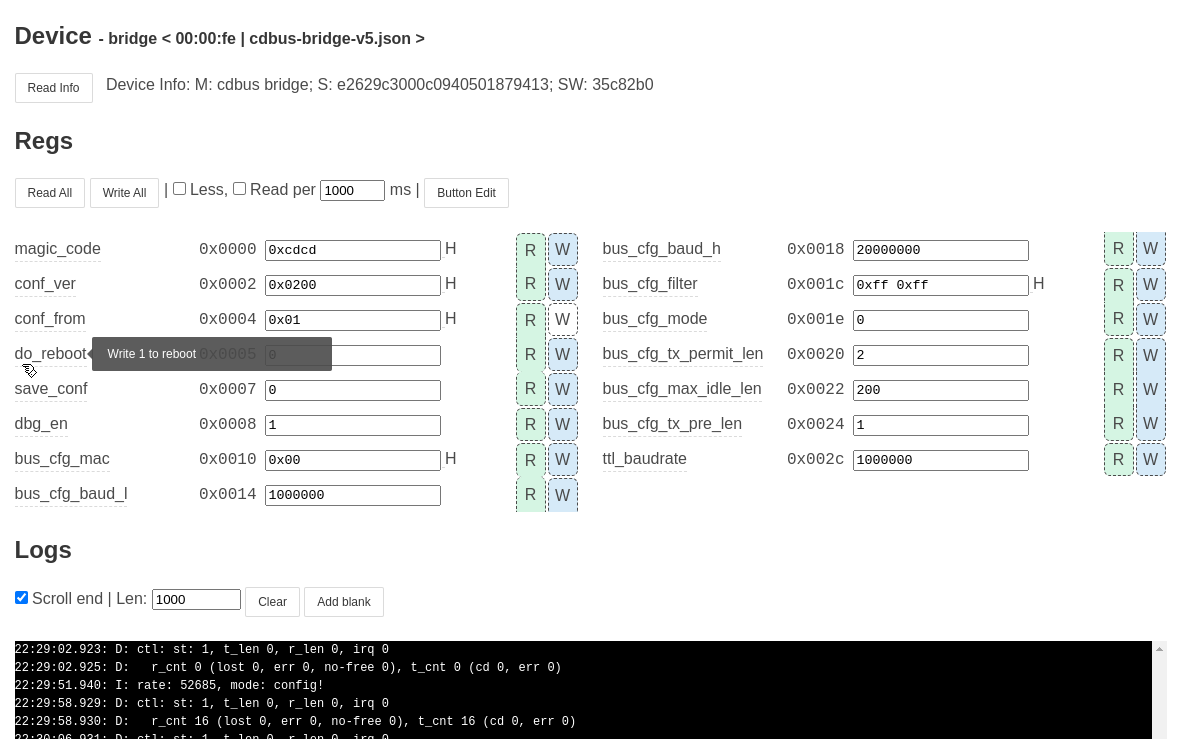
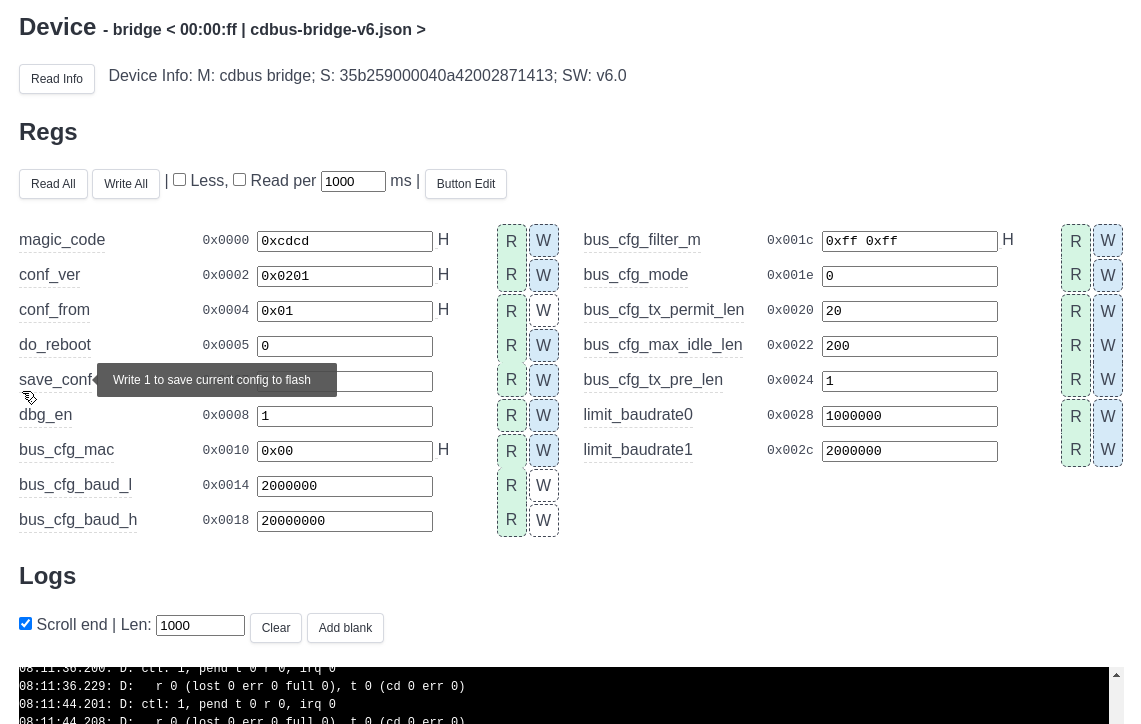
limit baud_l by switch 1.2

diff --git a/fw_bridge/usr/app_main.c b/fw_bridge/usr/app_main.c
@@ -84,7 +84,8 @@ static void usb_detection(void)
         csa.usb_online = false;
     } else if (!csa.usb_online && t_cur - t_usb > 5) { // wait for host to turn off echo
         csa.usb_online = true;
-        printf("usb: 0 -> 1\n");
+        cdc_struct_type *pcdc = (cdc_struct_type *)otg_core_struct_hs.dev.class_handler->pdata;
+        printf("usb: 0 -> 1 (baudrate %ld)\n", pcdc->linecoding.bitrate);
     }
 }
 
@@ -94,7 +95,10 @@ void app_main(void)
     volatile uint64_t *stack_check = (uint64_t *)((uint32_t)&end + 256);
     cdc_struct_type *pcdc = (cdc_struct_type *)otg_core_struct_hs.dev.class_handler->pdata;
     cd_frame_t *tx_frame = NULL;
-    static int cdc_rate_bk = 0;
+    uint32_t cdc_rate_bk = 0;
+    uint32_t cdc_rate_final = 115200;
+    uint32_t cdctl_baud_l = 115200;
+    uint32_t cdctl_baud_h = 115200;
 
     gpio_set_val(&led_tx, 1);
     gpio_set_val(&led_rx, 1);
@@ -109,15 +113,9 @@ void app_main(void)
         cd_list_put(&frame_free_head, &frame_alloc[i]);
 
     load_conf();
-    csa.force_115200 = !gpio_get_val(&sw2);
-    if (csa.force_115200) {
-        csa.bus_cfg.baud_l = 115200;
-        csa.bus_cfg.baud_h = 115200;
-        printf("force baudrate to 115200 by sw2!\n");
-    }
-
+    csa.bus_cfg.baud_l = csa.bus_cfg.baud_h = 115200;
     cduart_dev_init(&d_dev, &frame_free_head);
-    d_dev.local_mac = 0xfe;
+    d_dev.local_mac = 0xff;
 
     common_service_init();
 
@@ -142,8 +140,12 @@ void app_main(void)
 
     while (true) {
         usb_detection();
+        uint32_t cdc_rate = pcdc->linecoding.bitrate;
 
         if (csa.usb_online) {
+            if (cdc_rate != 0xcdcd)
+                cdc_rate_final = cdc_rate;
+
             if (frame_free_head.len > 5) {
                 uint16_t len = usb_vcp_get_rxdata(&otg_core_struct_hs.dev, usb_rx_buf);
                 cduart_rx_handle(&d_dev, usb_rx_buf, len);
@@ -167,7 +169,7 @@ void app_main(void)
             }
         }
 
-        if (pcdc->linecoding.bitrate == 0xcdcd) {
+        if (cdc_rate == 0xcdcd) {
             common_service_routine();
         } else {
             cd_frame_t *frame;
@@ -180,23 +182,34 @@ void app_main(void)
         data_led_task();
         dump_hw_status();
 
-        if (csa.force_115200 != !gpio_get_val(&sw2)) {
-            printf("sw2 changed, reboot...\n");
-            NVIC_SystemReset();
-        }
         if (!gpio_get_val(&sw1)) {
             printf("sw1 switch on, reboot...\n");
             NVIC_SystemReset();
-        }
-        if (pcdc->linecoding.bitrate != cdc_rate_bk) {
-            bool app_mode = (pcdc->linecoding.bitrate == 0xcdcd);
-            d_info("rate: %ld, mode: %s!\n", pcdc->linecoding.bitrate, app_mode ? "config" : "data");
-            cdc_rate_bk = pcdc->linecoding.bitrate;
         }
 
         if (*stack_check != 0xababcdcd12123434) {
             printf("stack overflow\n");
             while (true);
+        }
+
+        if (cdc_rate != cdc_rate_bk) {
+            d_info("rate: %ld, mode: %s!\n", cdc_rate, cdc_rate == 0xcdcd ? "config" : "data");
+            cdc_rate_bk = cdc_rate;
+        }
+
+        bool sw2_val = !gpio_get_val(&sw2);
+        uint32_t baud_limit = sw2_val ? csa.limit_baudrate1 : csa.limit_baudrate0;
+        uint32_t baud_h = cdc_rate_final;
+        uint32_t baud_l = csa.bus_cfg.mode ? baud_h : min(baud_h, baud_limit);
+
+        if (cdctl_baud_l != baud_l || cdctl_baud_h != baud_h) {
+            cdctl_baud_l = baud_l;
+            cdctl_baud_h = baud_h;
+            cdctl_set_clk(cdctl_baud_h);
+            cdctl_set_baud_rate(cdctl_baud_l, cdctl_baud_h);
+            cdctl_flush();
+            cdctl_get_baud_rate(&csa.bus_cfg.baud_l, &csa.bus_cfg.baud_h);
+            d_debug("cdctl: get baud rate: %lu %lu\n", csa.bus_cfg.baud_l, csa.bus_cfg.baud_h);
         }
     }
 }

diff --git a/fw_bridge/utils/cdctl_it.c b/fw_bridge/utils/cdctl_it.c
@@ -51,8 +51,8 @@ void cdctl_put_tx_frame(cd_frame_t *frame)
 void cdctl_set_baud_rate(uint32_t low, uint32_t high)
 {
     uint16_t l, h;
-    l = DIV_ROUND_CLOSEST(sysclk, low) - 1;
-    h = DIV_ROUND_CLOSEST(sysclk, high) - 1;
+    l = min(65535, max(2, DIV_ROUND_CLOSEST(sysclk, low) - 1));
+    h = min(65535, max(2, DIV_ROUND_CLOSEST(sysclk, high) - 1));
     cdctl_reg_w(REG_DIV_LS_L, l & 0xff);
     cdctl_reg_w(REG_DIV_LS_H, l >> 8);
     cdctl_reg_w(REG_DIV_HS_L, h & 0xff);
@@ -69,19 +69,12 @@ void cdctl_get_baud_rate(uint32_t *low, uint32_t *high)
     *high = DIV_ROUND_CLOSEST(sysclk, h + 1);
 }
 
-
-void cdctl_dev_init(cdctl_cfg_t *init)
+void cdctl_set_clk(uint32_t target_baud)
 {
-    rx_frame = cd_list_get(&frame_free_head);
+    cdctl_reg_w(REG_CLK_CTRL, 0x00); // select osc
+    d_info("cdctl: version (clk: osc): %02x\n", cdctl_reg_r(REG_VERSION));
 
-    d_info("cdctl: init...\n");
-    uint8_t ver = cdctl_reg_r(REG_VERSION);
-    d_info("cdctl: version: %02x\n", ver);
-
-    cdctl_reg_w(REG_CLK_CTRL, 0x80); // soft reset
-    d_info("cdctl: version after soft reset: %02x\n", cdctl_reg_r(REG_VERSION));
-
-    sysclk = cdctl_sys_cal(init->baud_h);
+    sysclk = cdctl_sys_cal(target_baud);
     pllcfg_t pll = cdctl_pll_cal(CDCTL_OSC_CLK, sysclk);
     unsigned actual_freq = cdctl_pll_get(CDCTL_OSC_CLK, pll);
     d_info("cdctl: sysclk %ld, actual: %d\n", sysclk, actual_freq);
@@ -96,9 +89,21 @@ void cdctl_dev_init(cdctl_cfg_t *init)
     cdctl_reg_w(REG_PLL_CTRL, 0x10); // enable pll
     d_info("clk_status: %02x\n", cdctl_reg_r(REG_CLK_STATUS));
     cdctl_reg_w(REG_CLK_CTRL, 0x01); // select pll
-    d_info("clk_status after select pll: %02x\n", cdctl_reg_r(REG_CLK_STATUS));
-    d_info("version after select pll: %02x\n", cdctl_reg_r(REG_VERSION));
+    d_info("clk_status (clk: pll): %02x\n", cdctl_reg_r(REG_CLK_STATUS));
+    d_info("version (clk: pll): %02x\n", cdctl_reg_r(REG_VERSION));
+}
 
+
+void cdctl_dev_init(cdctl_cfg_t *init)
+{
+    rx_frame = cd_list_get(&frame_free_head);
+
+    d_info("cdctl: init...\n");
+    uint8_t ver = cdctl_reg_r(REG_VERSION);
+    d_info("cdctl: version: %02x\n", ver);
+
+    cdctl_reg_w(REG_CLK_CTRL, 0x80); // soft reset
+    cdctl_set_clk(init->baud_h);
     cdctl_reg_w(REG_PIN_RE_CTRL, 0x10); // enable phy rx
 
     uint8_t setting = (cdctl_reg_r(REG_SETTING) & 0xf) | BIT_SETTING_TX_PUSH_PULL;

diff --git a/fw_bridge/usr/config.c b/fw_bridge/usr/config.c
@@ -16,7 +16,9 @@ const csa_t csa_dft = {
         .magic_code = 0xcdcd,
         .conf_ver = APP_CONF_VER,
         .dbg_en = false,
-        .bus_cfg = CDCTL_CFG_DFT(0x00)
+        .bus_cfg = CDCTL_CFG_DFT(0x00),
+        .limit_baudrate0 = 1000000,
+        .limit_baudrate1 = 2000000
 };
 
 csa_t csa;
@@ -28,11 +30,16 @@ void load_conf(void)
     uint16_t conf_ver = *(uint16_t *)(APP_CONF_ADDR + 2);
     csa = csa_dft;
 
-    if (magic_code == 0xcdcd && (conf_ver >> 8) == (APP_CONF_VER >> 8)) {
+    if (magic_code == 0xcdcd && conf_ver == APP_CONF_VER) {
         memcpy(&csa, (void *)APP_CONF_ADDR, offsetof(csa_t, _end_save));
         csa.conf_from = 1;
-        memset(&csa.do_reboot, 0, 3);
+    } else if (magic_code == 0xcdcd && (conf_ver >> 8) == (APP_CONF_VER >> 8)) {
+        memcpy(&csa, (void *)APP_CONF_ADDR, offsetof(csa_t, _end_common));
+        csa.conf_from = 2;
+        csa.conf_ver = APP_CONF_VER;
     }
+    if (csa.conf_from)
+        memset(&csa.do_reboot, 0, 3);
 }
 
 int save_conf(void)
@@ -146,6 +153,7 @@ void csa_list_show(void)
     CSA_SHOW_SUB(0, bus_cfg, cdctl_cfg_t, tx_pre_len, " Active TX_EN before TX");
     d_debug("\n");
 
-    CSA_SHOW(0, ttl_baudrate, "TTL baudrate");
+    CSA_SHOW(0, limit_baudrate0, "Low baudrate limit (sw1 off)");
+    CSA_SHOW(0, limit_baudrate1, "Low baudrate limit (sw1 on)");
     d_debug("\n");
 }

diff --git a/fw_bridge/usr/app_main.h b/fw_bridge/usr/app_main.h
@@ -29,7 +29,7 @@
 
 #define BL_ARGS             0x20000000 // first word
 #define APP_CONF_ADDR       0x0803F800 // last page
-#define APP_CONF_VER        0x0200
+#define APP_CONF_VER        0x0201
 
 #define FRAME_MAX           80
 
@@ -53,14 +53,13 @@ typedef struct {
     uint8_t         _reserved1[4];
 
     cdctl_cfg_t     bus_cfg;
-    uint8_t         _reserved2[4];
-    uint32_t        ttl_baudrate;
+    uint32_t        limit_baudrate0;
+    uint32_t        limit_baudrate1;
 
     // end of flash
     #define         _end_save usb_online
 
     bool            usb_online;
-    bool            force_115200;
 
 } csa_t; // config status area
 

diff --git a/fw_bl/usr/common_services.c b/fw_bl/usr/common_services.c
@@ -16,7 +16,7 @@ static char info_str[100];
 void send_frame(cd_frame_t *frame)
 {
     frame->dat[1] = frame->dat[0];
-    frame->dat[0] = 0xfe;
+    frame->dat[0] = 0xff;
     cd_list_put(&d_dev.tx_head, frame);
 }
 
@@ -184,7 +184,7 @@ int _write(int file, char *data, int len)
         cd_frame_t *frm = cd_list_get(&frame_free_head);
         if (frm) {
             len = min(CDN_MAX_DAT - 2, len);
-            frm->dat[0] = 0xfe;
+            frm->dat[0] = 0xff;
             frm->dat[1] = 0x0;
             frm->dat[2] = 2 + len;
             frm->dat[3] = 0x9;

diff --git a/fw_bridge/usr/common_services.c b/fw_bridge/usr/common_services.c
@@ -16,7 +16,7 @@ static char info_str[100];
 void send_frame(cd_frame_t *frame)
 {
     frame->dat[1] = frame->dat[0];
-    frame->dat[0] = 0xfe;
+    frame->dat[0] = 0xff;
     cd_list_put(&d_dev.tx_head, frame);
 }
 
@@ -184,7 +184,7 @@ int _write(int file, char *data, int len)
         cd_frame_t *frm = cd_list_get(&frame_free_head);
         if (frm) {
             len = min(CDN_MAX_DAT - 2, len);
-            frm->dat[0] = 0xfe;
+            frm->dat[0] = 0xff;
             frm->dat[1] = 0x0;
             frm->dat[2] = 2 + len;
             frm->dat[3] = 0x9;

diff --git a/fw_bridge/utils/cdctl_pll_cal.c b/fw_bridge/utils/cdctl_pll_cal.c
@@ -75,7 +75,7 @@ uint32_t cdctl_sys_cal(uint32_t baud) {
     uint32_t clk_step = 2e5L;
 
     for (uint32_t c = clk_max; c >= clk_min; c -= clk_step) {
-        uint32_t div = DIV_ROUND_CLOSEST(c, baud);
+        uint32_t div = min(65535, DIV_ROUND_CLOSEST(c, baud));
         uint32_t error = abs((int32_t)(DIV_ROUND_CLOSEST(c, div) - baud));
 
         if (error < best[1]) {

diff --git a/fw_bridge/utils/cdctl_it.h b/fw_bridge/utils/cdctl_it.h
@@ -56,6 +56,7 @@ typedef struct {
 
 void cdctl_dev_init(cdctl_cfg_t *init);
 
+void cdctl_set_clk(uint32_t target_baud);
 void cdctl_set_baud_rate(uint32_t low, uint32_t high);
 void cdctl_get_baud_rate(uint32_t *low, uint32_t *high);
 

diff --git a/fw_bl/usr/app_main.c b/fw_bl/usr/app_main.c
@@ -88,7 +88,7 @@ void app_main(void)
     load_conf();
 
     cduart_dev_init(&d_dev, &frame_free_head);
-    d_dev.local_mac = 0xfe;
+    d_dev.local_mac = 0xff;
 
     common_service_init();
 

diff --git a/Readme.md b/Readme.md
@@ -5,14 +5,12 @@ The `CDBUS Bridge HS` is a USB-to-RS485 (CDBUS) adapter. The USB port supports `
 <img alt="cdbus_bridge" src="doc/img/cdbridge_v6.1.jpg">  
 <img alt="cdbus_bridge" src="doc/img/cdbridge_v6.1_case.jpg">
 
- - The RS485 baud rate must be configured using the CDBUS GUI tool, as the hardware supports dual baud rate mode. The baud rate specified when opening the USB serial port is ignored.
  - The two RS485 ports are internally straight-through, simplifying wiring.
 
 Switchs Defination：
- - S1.1: Mode selection:  
-         ON: Bootloader mode; OFF: Application mode.
- - S1.2: RS485 baud rate selection:  
-         ON: 115200 bps; OFF: User-configured baud rate.
+ - S1.1: Force bootloader mode.
+ - S1.2: In arbitration mode, the maximum limit of `baud_l`:  
+         ON: Default 2 Mbps; OFF: Default 1 Mbps. (modifiable)
  - S2.1: Enable pull-up resistor.
  - S2.2: Enable termination resistor.
  - S2.3: Enable pull-down resistor.
@@ -23,11 +21,9 @@ Switchs Defination：
 
 CDBUS GUI Tool: https://github.com/dukelec/cdbus_gui
 
-To enter configuration mode, open the serial port and set the baud rate to `52685` (`0xcdcd`).
-
 When you open the serial port, specify the baud rate as `52685` (`0xcdcd`) to enter the configuration mode.
 
-The target address should be set to `00:00:fe`.
+The target address should be set to `00:00:ff`.
 
 After modifying the configuration, write 1 to `save_conf` to save the changes to flash.
 
@@ -39,7 +35,7 @@ To restore the default configuration, change the value of `magic_code` to a diff
 ## Download Source Code
 
 ```
-git clone https://github.com/dukelec/cdbus_bridge
+git clone --recursive https://github.com/dukelec/cdbus_bridge
 ```
 
 For other hardware versions, please switch to the corresponding branch.
@@ -47,7 +43,7 @@ For other hardware versions, please switch to the corresponding branch.
 ## Test
 
 ```
-git clone --recurse-submodules https://github.com/dukelec/cdbus_tools
+git clone --recursive https://github.com/dukelec/cdbus_tools
 ```
 
 ```
